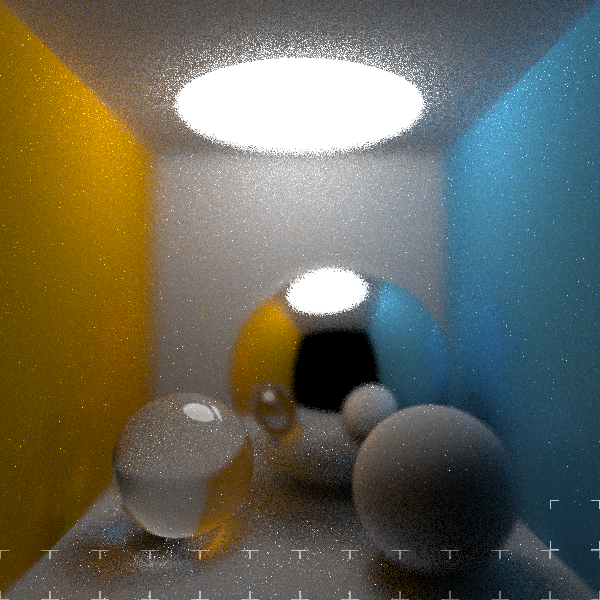
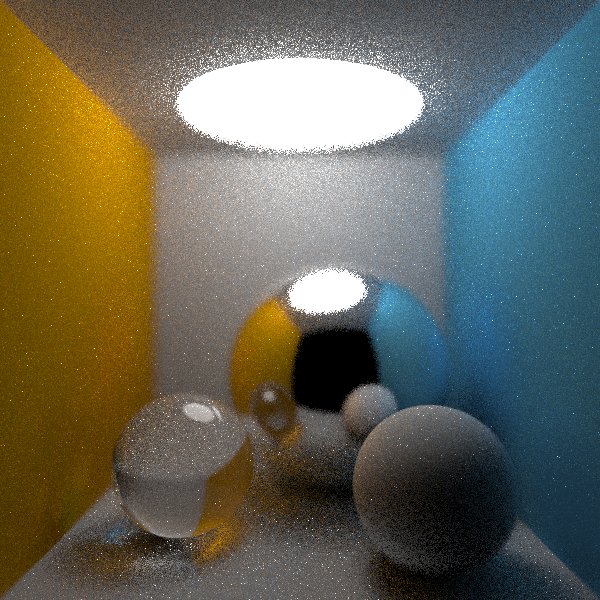
Added DOF, fixed image output

diff --git a/RenderWindow.py b/RenderWindow.py
@@ -63,10 +63,10 @@ class RenderWindow(QWidget):
 	def startRender(self,scene,cam):
 		#start render in a new thread
 		self.renderTask = RenderThread(self.width,self.height,scene,cam)
-		self.renderTask.finished.connect(self.saveImage)
-		self.renderTask.finished.connect(self.cleanBucketLocators)
 		self.renderTask.updateImgSignal.connect(self.updateRenderImage)
 		self.renderTask.bucketProgressSignal.connect(self.showBucketProgess)
+		self.renderTask.finished.connect(self.cleanBucketLocators)
+		self.renderTask.finished.connect(self.saveImage)
 		self.renderTask.start()
 
 	def cleanBucketLocators(self):

diff --git a/Main.py b/Main.py
@@ -69,7 +69,7 @@ def main():
 
 	newScene = Scene({"geometry":[quad01,quad02,quad03,quad04,quad05,sphere02,sphere03,sphere04],"light":[light01]})
 
-	cam = Camera(Vector(0,0,0),Vector(0,0,1),32,aperture=2,focusDist=110,filmFit="Horizontal")
+	cam = Camera(Vector(0,0,0),Vector(0,0,1),32,aperture=2.8,focusDist=106,filmFit="Horizontal")
 	renderView.startRender(newScene,cam)
 
 	sys.exit(renderApp.exec_())

diff --git a/README.md b/README.md
@@ -31,7 +31,7 @@
 
   * Camera:
     * Camera exposure
-    * Depth of field
+    * Depth of field [✓]
     * Motion blur
 
   * Optimization:
